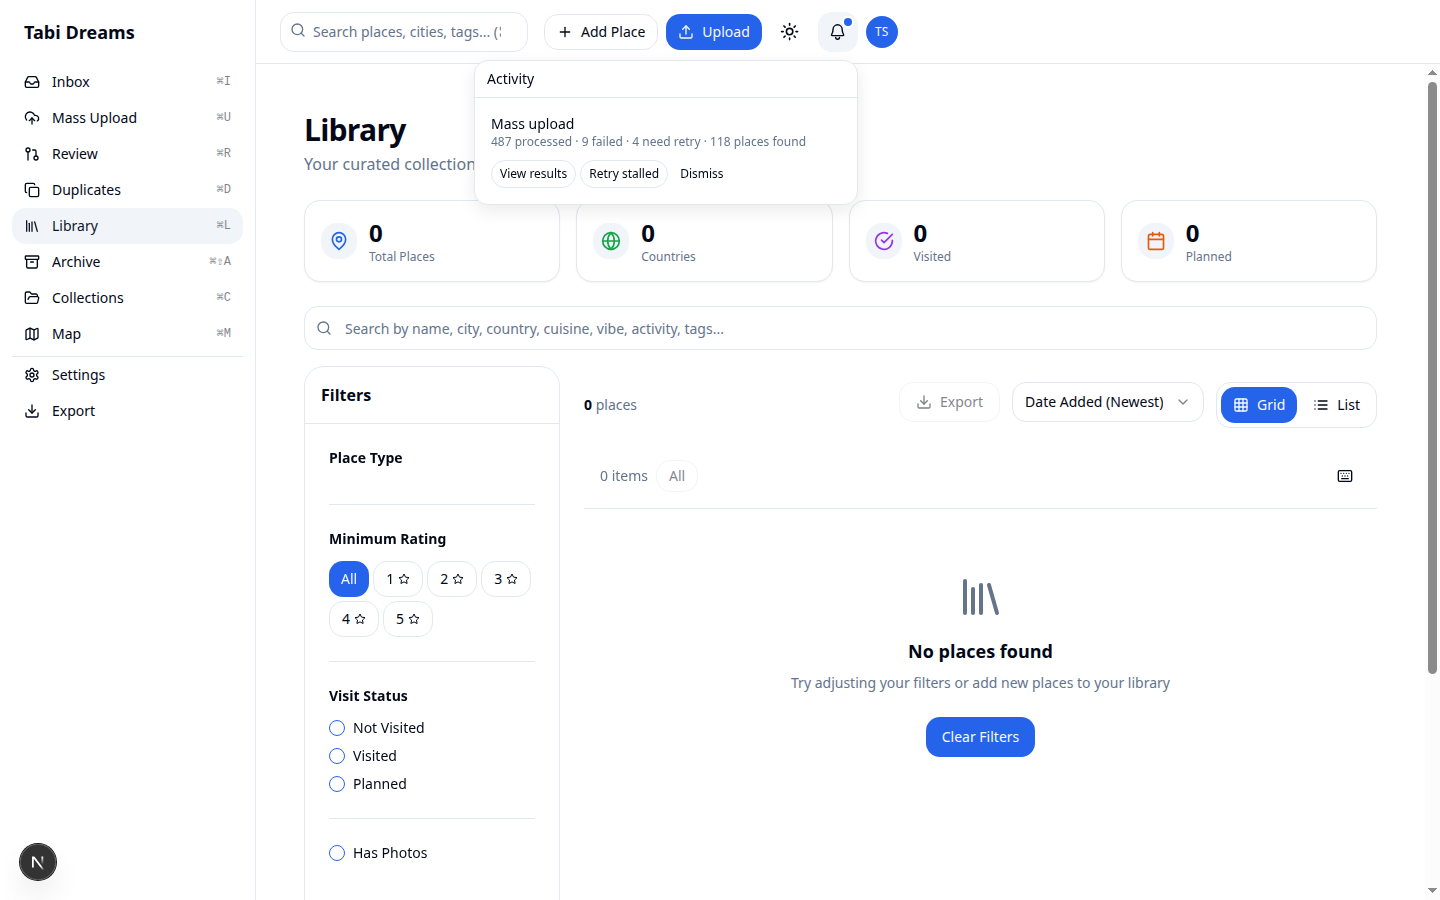
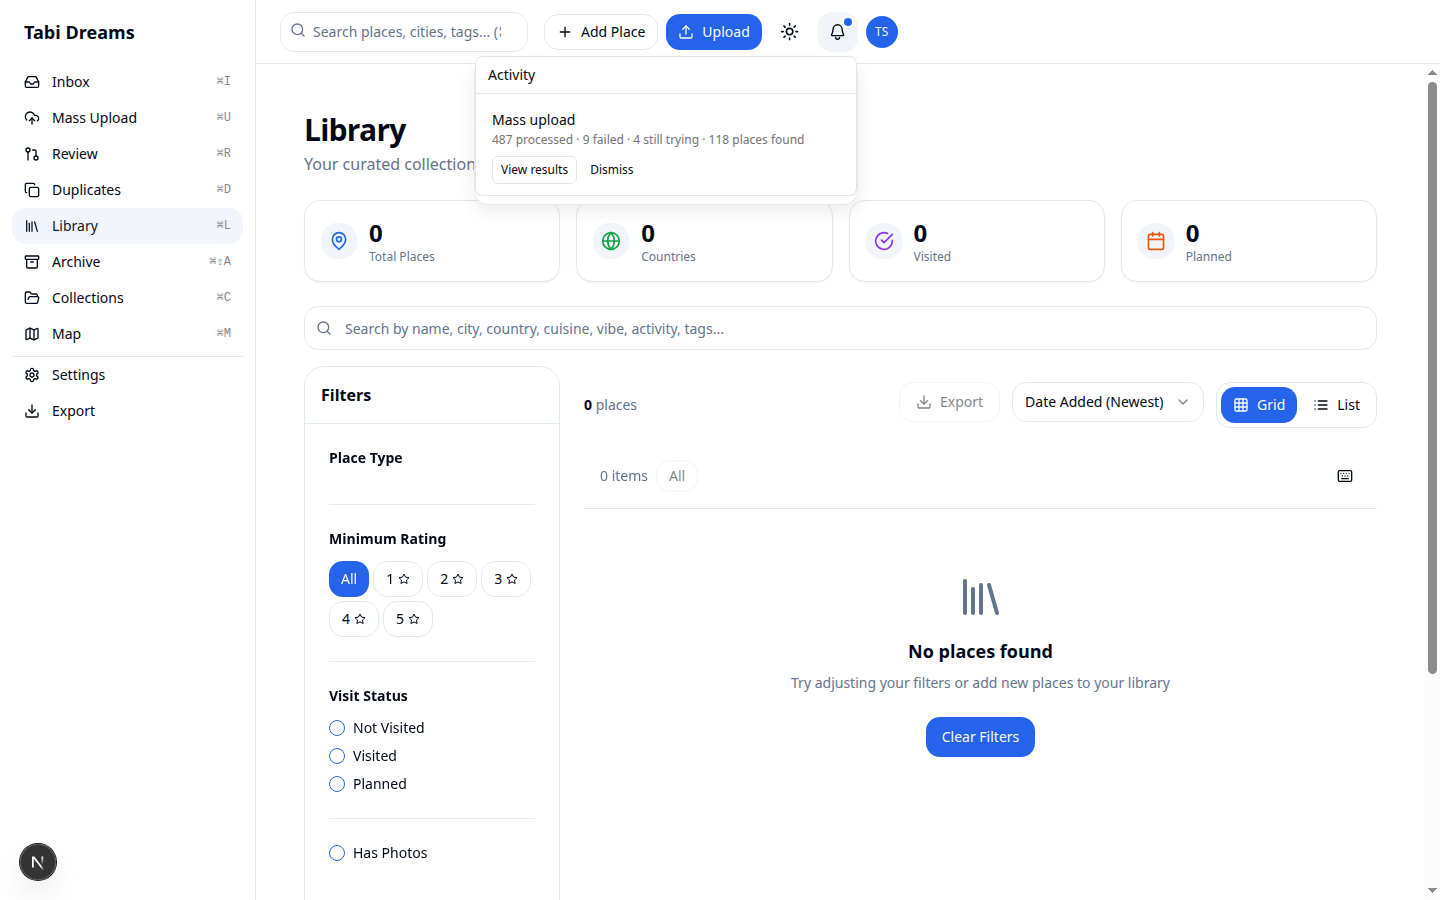
no-mistakes(document): Refresh activity-bell Still trying screenshots

Changed region(s): [[0.3438, 0.1244, 0.5625, 0.2178], [0.3438, 0.0622, 0.375, 0.0933]]

diff --git a/docs/screenshots/README.md b/docs/screenshots/README.md
@@ -16,14 +16,14 @@ Theme log from the capture run: [`activity-bell-theme-log.json`](activity-bell-t
 | `activity-bell-active-tropical.png` | tropical teal Upload | Active-work dot on tropical tokens |
 | `activity-bell-popover-active-classic.png` | classic | Popover: `Processing 183 of 500 · 42 places found` |
 | `activity-bell-popover-active-tropical.png` | tropical | Same active popover; shell accents differ |
-| `activity-bell-popover-complete-classic.png` | classic | Completed job with counts, View results / Dismiss (capture predates Still trying — PNG still shows "need retry" / Retry stalled; current copy in AGENTS.md Mass-upload queue) |
-| `activity-bell-popover-complete-tropical.png` | tropical | Same completed popover in tropical (same predates note) |
+| `activity-bell-popover-complete-classic.png` | classic | Completed job: `487 processed · 9 failed · 4 still trying · 118 places found`, View results / Dismiss |
+| `activity-bell-popover-complete-tropical.png` | tropical | Same completed popover in tropical |
 
 **Exercised live:** authenticated `/library` shell, theme cookie round-trip, bell indicator, and rendered popover copy and action controls. Active counts came from an in-page `fetch` mock of `/api/mass-upload/status` after login; completed jobs were hydrated from the signed-in user's `td:activity-jobs:v1:<userId>` key the same way a reload would.
 
 **Unit-tested, not screenshoted:** provider toast-once + persist-across-remount, acknowledge clears storage, poll-paused copy, session list `userId` scope, 404-then-403 on GET/PATCH.
 
-**Reasoned (at capture time):** in-page `/mass-upload` progress card; `toastWithNavigate` on a real completing run (provider unit test covers the call). Stalled badge/copy on that card later became "still trying" (same AGENTS.md section).
+**Reasoned (at capture time):** in-page `/mass-upload` progress card; `toastWithNavigate` on a real completing run (provider unit test covers the call). Stalled rows surface as "still trying" (AGENTS.md Mass-upload queue).
 
 ## Notification triage
 
